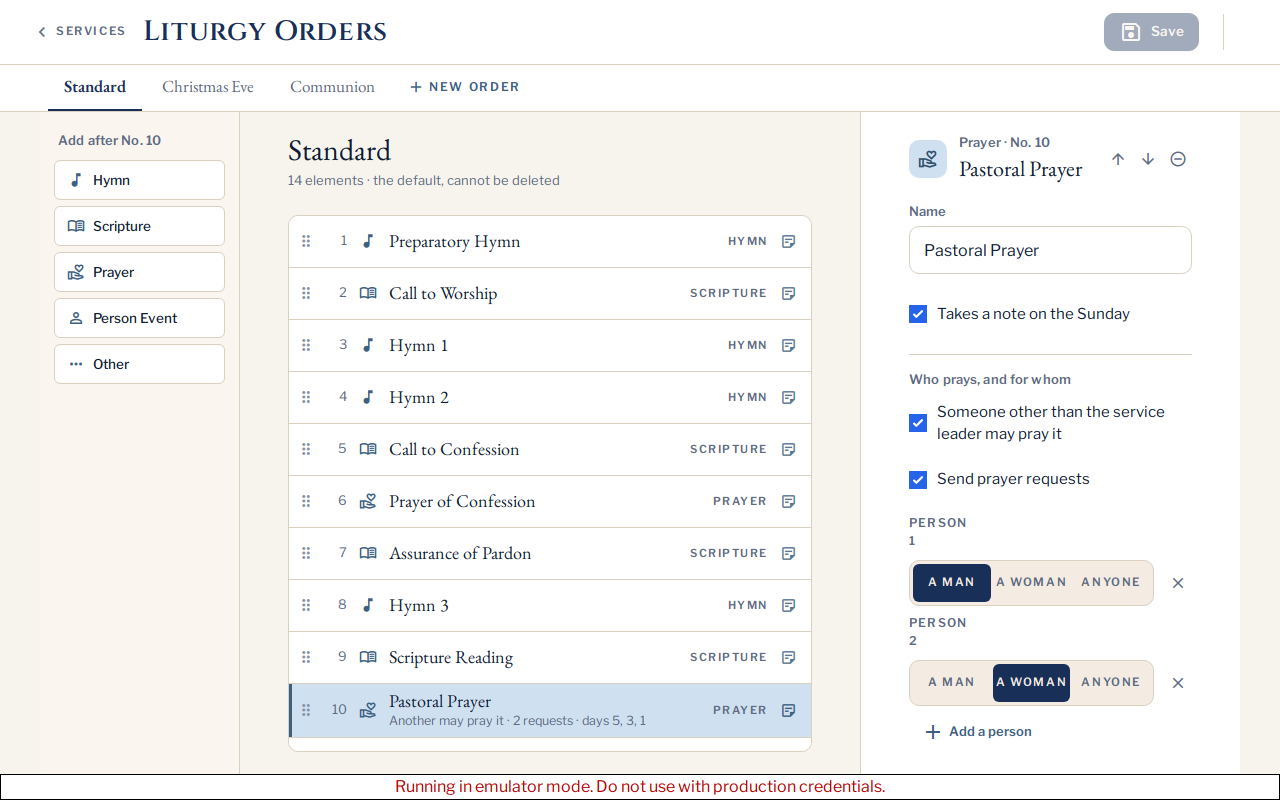
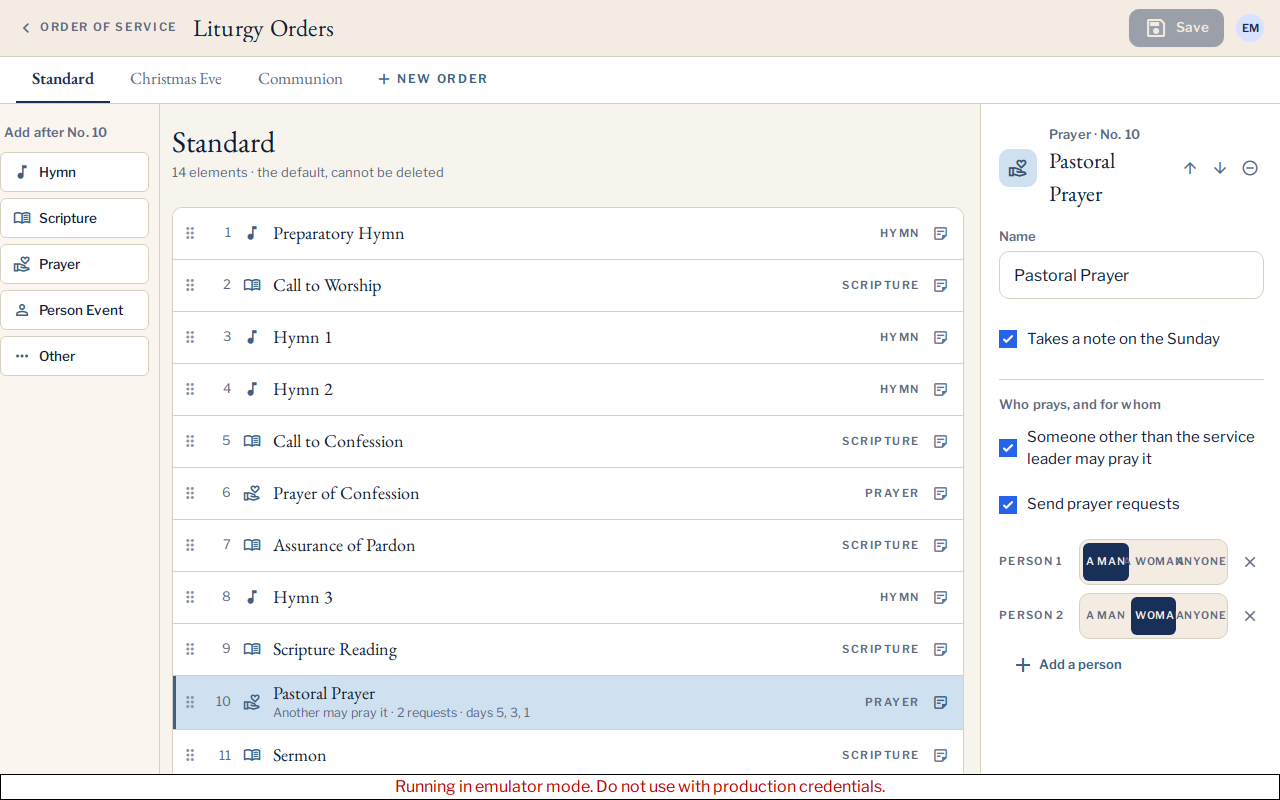
MS-716: full-bleed liturgy orders layout and header fidelity
Flush 160/1fr/300 columns, tool header with Order of Service back link,
lighter serif title, avatar beside Save, inline person rows, and
inspector scroll for prayer fields. Refresh screenshots.

diff --git a/public/liturgy-orders.html b/public/liturgy-orders.html
@@ -24,27 +24,33 @@
      of Service; this page decides what the orders are. -->
 <body class="m-page m-page--tool lo-page" x-data="liturgyOrdersPage()" x-init="init()" x-cloak>
 
-    <header class="m-header lo-header">
+    <header class="m-header m-header--tool lo-header">
         <div class="m-header__inner">
             <div class="m-header__lead">
                 <a class="m-back" id="back" :href="backHref">
                     <span class="material-symbols-outlined">chevron_left</span>
-                    <span class="m-back__label" x-text="backLabel">Services</span>
+                    <span class="m-back__label" x-text="backLabel">Order of Service</span>
                 </a>
-                <div class="m-header__titles"><h1 class="m-header__title">Liturgy Orders</h1></div>
+                <div class="m-header__titles">
+                    <h1 class="m-header__title m-header__title--serif">Liturgy Orders</h1>
+                </div>
             </div>
-            <div class="m-header__actions" x-show="editing">
-                <span class="lo-unsaved" x-show="dirty">Unsaved changes</span>
-                <button type="button" class="m-btn m-btn--quiet m-btn--sm" x-show="dirty" @click="discard()">
+            <div class="m-header__actions lo-header__actions">
+                <span class="lo-unsaved" x-show="editing && dirty">Unsaved changes</span>
+                <button type="button" class="m-btn m-btn--quiet m-btn--sm" x-show="editing && dirty" @click="discard()">
                     <span class="m-btn__label">Discard</span>
                 </button>
-                <button type="button" id="liturgy-orders-save" class="m-btn m-btn--primary m-btn--sm" :disabled="!dirty || saving" @click="save()">
+                <button type="button" id="liturgy-orders-save" class="m-btn m-btn--primary m-btn--sm"
+                        x-show="editing" :disabled="!dirty || saving" @click="save()">
                     <span class="material-symbols-outlined" x-text="saving ? 'progress_activity' : 'save'"></span>
                     <span class="m-btn__label" x-text="saving ? 'Saving…' : 'Save'"></span>
                 </button>
+                <a href="profile.html" class="lo-header__avatar" x-show="userInitials" :title="userName">
+                    <span class="m-avatar m-avatar--sm" x-text="userInitials"></span>
+                </a>
             </div>
-            <div class="m-header__rule"></div>
-            <div class="m-header__auth" id="auth-container"></div>
+            <div class="m-header__rule" x-show="false"></div>
+            <div class="m-header__auth lo-header__auth-fallback" id="auth-container" x-show="!userInitials"></div>
         </div>
     </header>
 
@@ -308,12 +314,29 @@
     <script defer src="vendor/alpine-3.15.12.min.js"></script>
 
     <style>
-        .lo-page.m-page--tool { --lo-header-h: 64px; }
-        .lo-page .m-page__body { flex: 1 1 auto; min-height: 0; overflow: hidden; display: flex; flex-direction: column; padding: 0; }
-        .lo-header .m-header__title { font-family: var(--font-display); letter-spacing: .02em; color: var(--primary); }
+        .lo-page.m-page--tool {
+            --lo-header-h: 56px; width: 100%; max-width: none; margin: 0;
+        }
+        .lo-page.m-page--tool > .m-header,
+        .lo-page.m-page--tool > .lo-tabs,
+        .lo-page.m-page--tool > .m-page__body {
+            width: 100%; max-width: none; margin-left: 0; margin-right: 0;
+        }
+        .lo-page .m-page__body {
+            flex: 1 1 auto; min-height: 0; overflow: hidden; display: flex; flex-direction: column;
+            padding: 0 !important; max-width: none !important; width: 100%; margin: 0 !important;
+        }
+        .lo-header { --m-header-pad: 16px; }
+        .lo-header .m-header__title {
+            font-family: var(--font-serif); font-size: 24px; font-weight: 400;
+            letter-spacing: .01em; color: var(--on-surface);
+        }
+        .lo-header__actions { gap: var(--space-sm); }
+        .lo-header__avatar { display: inline-flex; flex: 0 0 auto; text-decoration: none; }
+        .lo-header__auth-fallback:empty { display: none; }
         .lo-unsaved { font-size: 13px; color: var(--on-surface-variant); margin-right: var(--space-xs); }
         .lo-tabs {
-            flex: 0 0 auto; display: flex; align-items: flex-end; gap: 4px; padding: 0 var(--space-lg);
+            flex: 0 0 auto; display: flex; align-items: flex-end; gap: 4px; padding: 0 16px;
             background: var(--surface-container-lowest); border-bottom: 1px solid var(--outline-variant);
         }
         .lo-tab {
@@ -334,13 +357,13 @@
             grid-template-columns: minmax(0, 1fr); grid-template-rows: auto minmax(0, 1fr);
             gap: 0; overflow: hidden;
         }
-        .lo-workspace > .m-notice { margin: var(--space-sm) var(--space-lg) 0; }
+        .lo-workspace > .m-notice { margin: var(--space-sm) 16px 0; }
         .lo-palette {
             display: none;
         }
         .lo-canvas {
             min-height: 0; display: flex; flex-direction: column; gap: var(--space-md);
-            padding: var(--space-lg) var(--space-lg) 0; overflow: hidden;
+            padding: 20px 16px 0; overflow: hidden;
         }
         .lo-canvas__head { display: flex; align-items: flex-end; gap: var(--space-sm); }
         .lo-canvas__titles { flex: 1 1 auto; min-width: 0; display: flex; flex-direction: column; gap: 2px; }
@@ -400,12 +423,18 @@
         .lo-textarea { height: auto; padding-top: 10px; resize: vertical; }
         .lo-prayer { display: flex; flex-direction: column; gap: 12px; padding-top: 16px; border-top: 1px solid var(--outline-variant); }
         .lo-person { display: flex; flex-direction: column; gap: 8px; }
-        .lo-person__line { display: flex; align-items: center; gap: 10px; flex-wrap: wrap; }
+        .lo-person__line {
+            display: flex; flex-direction: row; align-items: center; gap: 8px; min-width: 0;
+        }
         .lo-person__n {
-            flex: 0 0 64px; font-size: 12px; font-weight: 600; letter-spacing: .1em;
+            flex: 0 0 72px; white-space: nowrap; font-size: 11px; font-weight: 600; letter-spacing: .12em;
             text-transform: uppercase; color: var(--on-surface-variant);
         }
-        .lo-person__line .m-seg { flex: 1 1 180px; }
+        .lo-person__line > .m-seg { flex: 1 1 0; min-width: 0; }
+        .lo-person__line > .m-icon-btn { flex: 0 0 auto; }
+        .lo-inspector .m-seg__opt {
+            padding-left: 6px; padding-right: 6px; font-size: 10.5px; letter-spacing: .08em;
+        }
         .lo-person__add {
             align-self: flex-start; display: inline-flex; align-items: center; gap: var(--space-xs);
             min-height: 36px; padding: 0 var(--space-sm); background: transparent; border: 0;
@@ -429,17 +458,24 @@
         .sortable-ghost { opacity: .4; }
         @media (min-width: 1024px) {
             .lo-workspace {
-                grid-template-columns: 200px minmax(0, 1fr) 380px;
+                grid-template-columns: 160px minmax(0, 1fr) 300px;
                 grid-template-rows: minmax(0, 1fr);
+                height: 100%;
             }
+            .lo-palette, .lo-canvas, .lo-inspector { min-height: 0; }
             .lo-workspace > .m-notice { grid-column: 1 / -1; }
             .lo-palette {
-                display: flex; flex-direction: column; gap: 10px; padding: 20px 14px;
+                display: flex; flex-direction: column; gap: 10px; padding: 20px 10px 20px 0;
                 border-right: 1px solid var(--outline-variant); background: var(--surface-container-low);
                 min-height: 0; overflow: auto;
             }
-            .lo-inspector { border-top: 0; border-left: 1px solid var(--outline-variant); }
-            .lo-canvas { padding-top: 20px; }
+            .lo-inspector {
+                border-top: 0; border-left: 1px solid var(--outline-variant);
+                min-height: 0; max-height: 100%; overflow: hidden;
+            }
+            .lo-inspector__scroll { padding: 22px 16px 22px 18px; overflow-y: auto; }
+            .lo-canvas { padding: 20px 16px 0 12px; }
+            .lo-list { margin-bottom: 16px; }
         }
         @media (max-width: 1023px) {
             .lo-palette {

diff --git a/public/liturgy-orders.js b/public/liturgy-orders.js
@@ -92,7 +92,9 @@ function liturgyOrdersPage() {
         get backHref() {
             return this.date ? 'service-builder.html?date=' + encodeURIComponent(this.date) : 'service-calendar.html';
         },
-        get backLabel() { return this.date ? 'Order of Service' : 'Services'; },
+        get backLabel() { return 'Order of Service'; },
+        userName: '',
+        userInitials: '',
         get dirty() { return JSON.stringify(this.catalog) !== this.baseline; },
 
         // Standard first, then by name — the order every other page lists them in.
@@ -172,6 +174,10 @@ function liturgyOrdersPage() {
                 try {
                     const userData = await getUserData(user.uid);
                     this.canEdit = AccessCore.pageFlags(userData).canWriteEditor;
+                    const name = (userData && userData.name) || user.displayName || 'Editor';
+                    this.userName = name;
+                    const Dest = window.MosaicDestinations;
+                    this.userInitials = Dest ? Dest.initials(name) : name.trim().charAt(0).toUpperCase() || '?';
                 } catch (e) {
                     this.canEdit = false;
                 }
